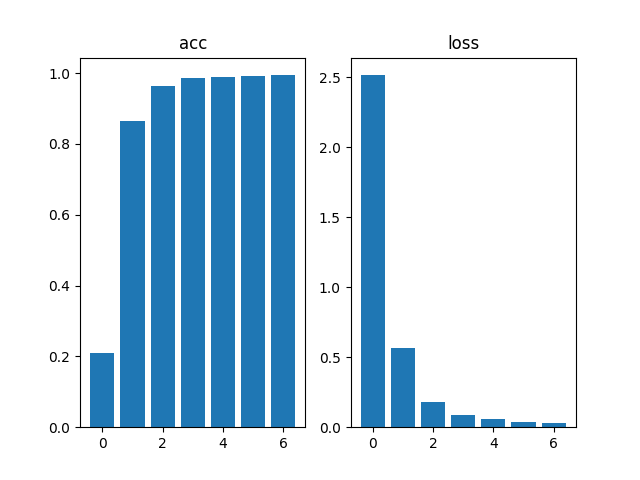
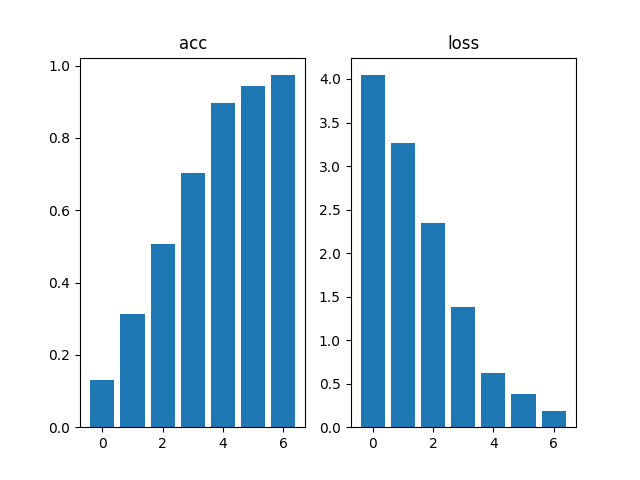
Time: 2019-08-13 21:33:16

diff --git a/louishsu/recognize_stage_2/main_update_config.py b/louishsu/recognize_stage_2/main_update_config.py
@@ -4,7 +4,7 @@
 @Auther: louishsu
 @E-mail: is.louishsu@foxmail.com
 @Date: 2019-08-10 10:30:40
-@LastEditTime: 2019-08-13 18:39:03
+@LastEditTime: 2019-08-13 21:32:38
 @Update: 
 '''
 import os
@@ -29,9 +29,9 @@ from utils import accuracy, gen_markdown_table_2d, parse_log, ImageAttributes
 from train import train
 from test  import test
 
-def get_configer(n_epoch=90, stepsize=70, batchsize=2**7, lrbase=1e-4, gamma=0.2, cuda=True, 
+def get_configer(n_epoch=70, stepsize=50, batchsize=2**5, lrbase=5e-4, gamma=0.2, cuda=True, 
                 dsize=(112//2, 96//2), n_channel=25, n_class=92, datatype='Multi', 
-                usedChannels=[i+1 for i in range(25)], splitratio=[0.5, 0.3, 0.2], 
+                usedChannels=[i+1 for i in range(25)], splitratio=[0.6, 0.2, 0.2], 
                 splitcount=1, modelbase='recognize_vgg11_bn',
                 datapath = "/datasets/ECUSTDETECT",
                 savepath = 'checkpoints'):

diff --git a/louishsu/recognize_stage_2/EXP.md b/louishsu/recognize_stage_2/EXP.md
@@ -27,6 +27,10 @@
 ![accuracy](images/accuracy.svg)
 ![logloss](images/logloss.svg)
 
+```
+dsize = (112//2, 96//2)
+```
+
 ## 3.1 划分比例的确定
 
 > 确定在何种划分下进行实验，后续实验均以此结果为标准。
